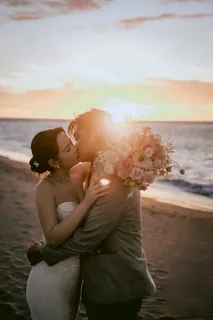
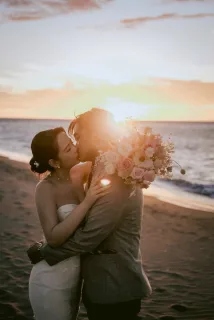
feat(story): add third-batch photos to the closing trail

diff --git a/app/composables/useStoryContent.ts b/app/composables/useStoryContent.ts
@@ -30,6 +30,16 @@ const HERO_PHOTOS = Array.from({ length: 24 }, (_, i) =>
   `/images/story/ring-${String(i + 1).padStart(2, '0')}.webp`)
 const heroTiles: StoryHeroTile[] = HERO_PHOTOS.map((src, k) => ({ src, message: HERO_WISHES[k % HERO_WISHES.length]! }))
 
+// 結尾那一區的拖尾照片：相簿三批裡全部 42 張直式縮成長邊 320px（public/images/story/trail-01～42.webp）。
+// 池子越大滑鼠掃過越不會繞回同一張（新人 09-15：「用原本那 30 張就不會重複」）；16 張橫式不放——塞進 3:4 的拍立得會切掉人。
+// 順序是同場景連著出（草原 19 → 海邊 15 → 都會 8）：三種場景輪流出過一版，連著冒的每張換色調，新人說「散散的」，同場景連著出色調才連貫。
+// 數字是 trail 檔的編號、陣列順序才是出場順序：01～36 是前兩批（檔名就是當時的出場順序），
+// 37～42 是第三批（09-17）的六張直式（依序來自相簿 51、53、54、58、61、62），穿插進各自的場景裡、不重排舊檔；
+// trail-19、23 同一天換成重修版（相簿 42、50）。trail 檔對回相簿編號的整張表在 docs/public-landing-assets.md §68
+const TRAIL_MEADOW = [1, 38, 2, 3, 4, 5, 6, 37, 7, 8, 9, 10, 11, 12, 13, 14, 15, 16, 17]
+const TRAIL_SEASIDE = [18, 39, 19, 20, 40, 21, 22, 41, 23, 24, 42, 25, 26, 27, 28]
+const TRAIL_CITY = [29, 30, 31, 32, 33, 34, 35, 36]
+
 // 桌機左緣的直排英文（新人 2026-09-04 定稿），固定兩行、不折第三行。
 // 三個數字的開頭與「orbits」「home」用 Cormorant 斜體，跟頁面上所有數字走同一套襯線
 const heroAside: StoryTextRun[][] = [
@@ -578,11 +588,8 @@ export function useStoryContent(): StoryContent {
       url: 'https://drive.google.com/drive/folders/1N_svXqePPzIXKfYE4Jf_EnPrGhJcJQJd?usp=sharing',
       label: '把你今天拍的照片放進來',
     },
-    // 拖尾照片：相簿兩批裡全部 36 張直式縮成長邊 320px（trail-01～36.webp，合計 441KB，前 12 張進頁面就抓、其餘快捲到才抓）。
-    // 池子越大滑鼠掃過越不會繞回同一張（新人 09-15：「用原本那 30 張就不會重複」）。
-    // 順序是同場景連著出（草原 17 → 海邊 11 → 都會 8）：三種場景輪流出過一版，連著冒的每張換色調，新人說「散散的」；
-    // 同場景連著出色調才連貫。13 張橫式不放——塞進 3:4 的拍立得會切掉人
-    trail: Array.from({ length: 36 }, (_, i) => `/images/story/trail-${String(i + 1).padStart(2, '0')}.webp`),
+    // 拖尾照片：相簿三批裡全部 42 張直式（出場順序與檔案對照見檔頭的 TRAIL_*）；前 12 張進頁面就抓、其餘快捲到才抓
+    trail: [...TRAIL_MEADOW, ...TRAIL_SEASIDE, ...TRAIL_CITY].map(n => `/images/story/trail-${String(n).padStart(2, '0')}.webp`),
     music: {
       src: '/audio/wedding-bgm.mp3',
       title: 'Our Song',
